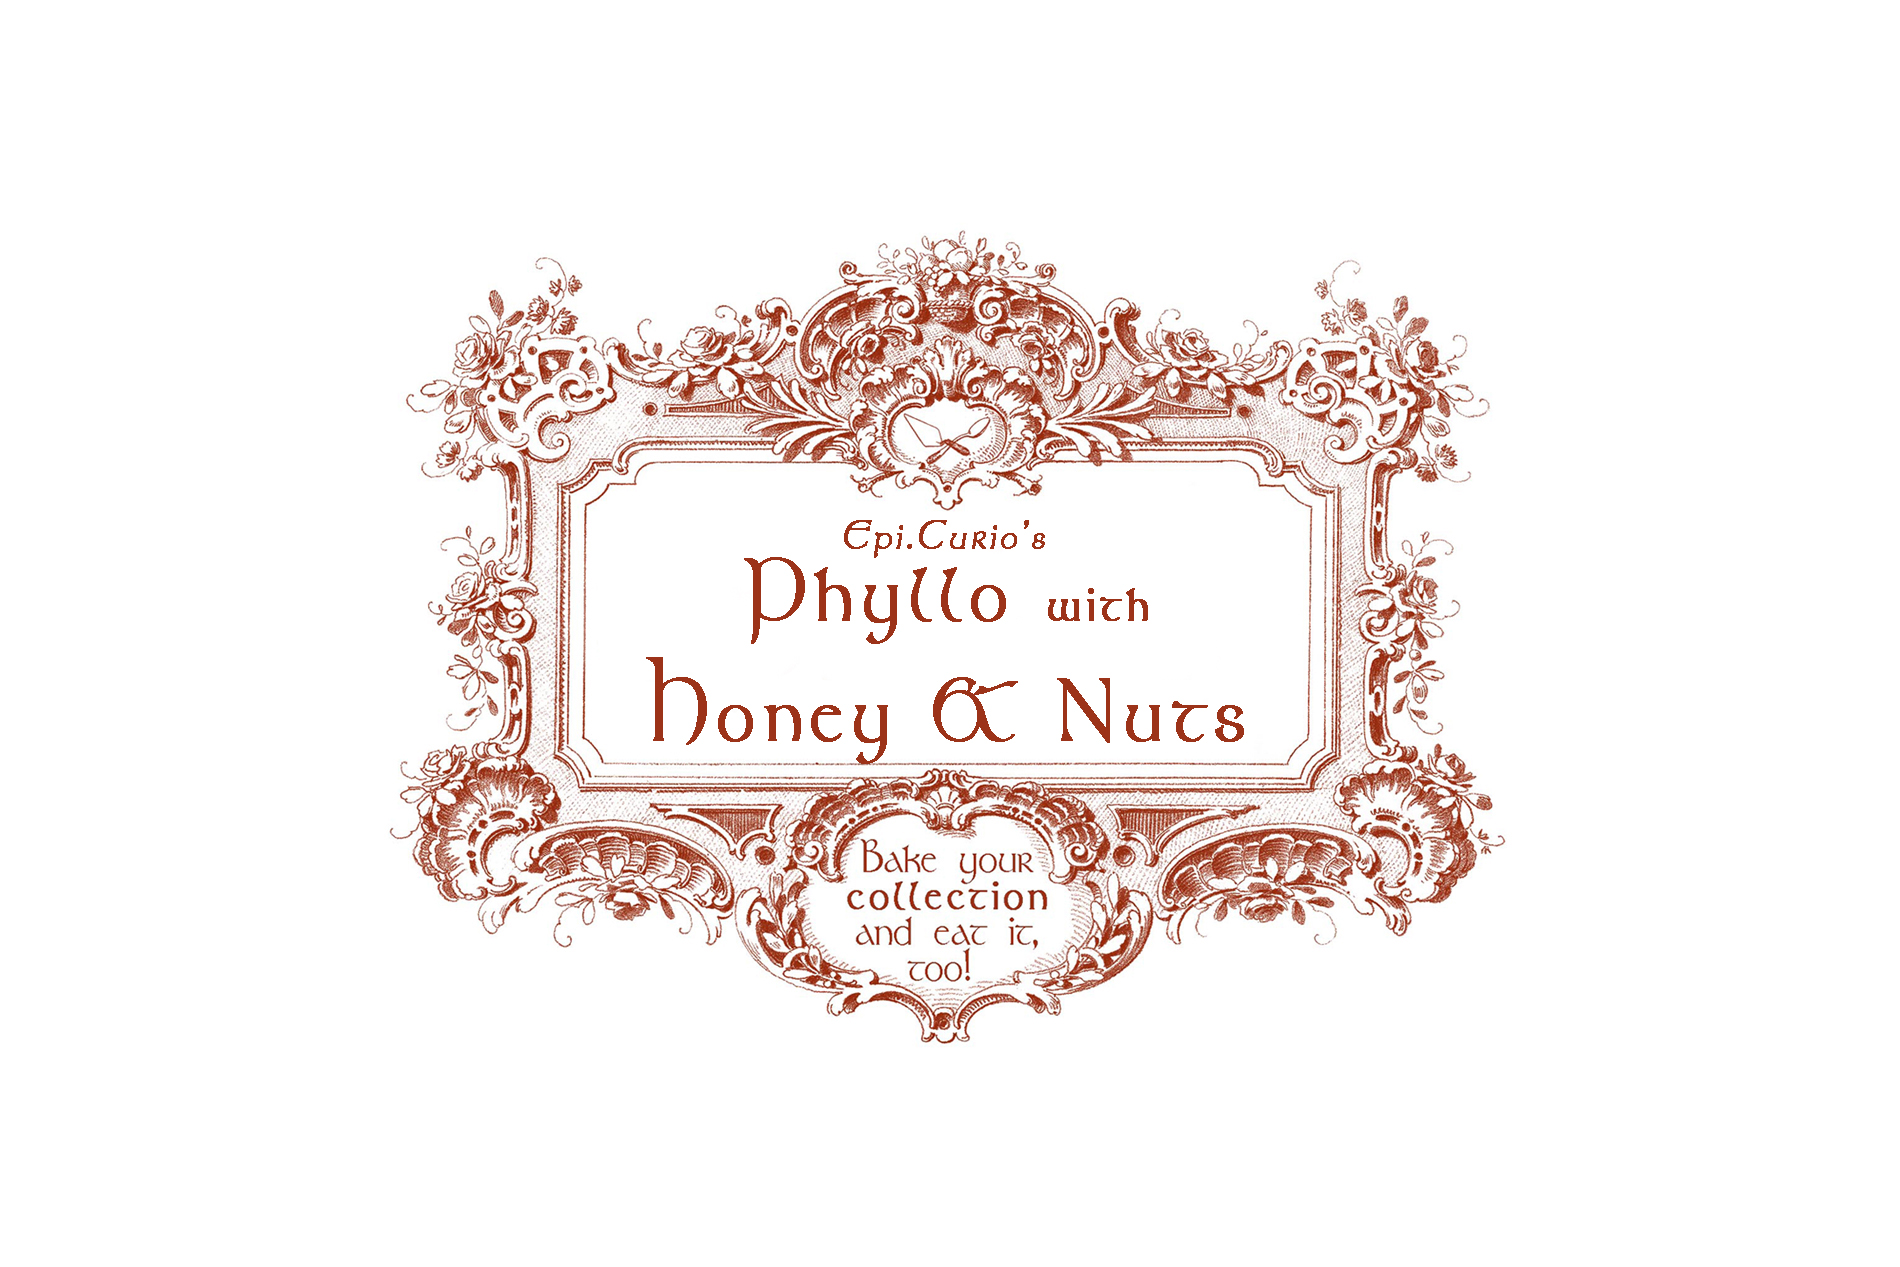
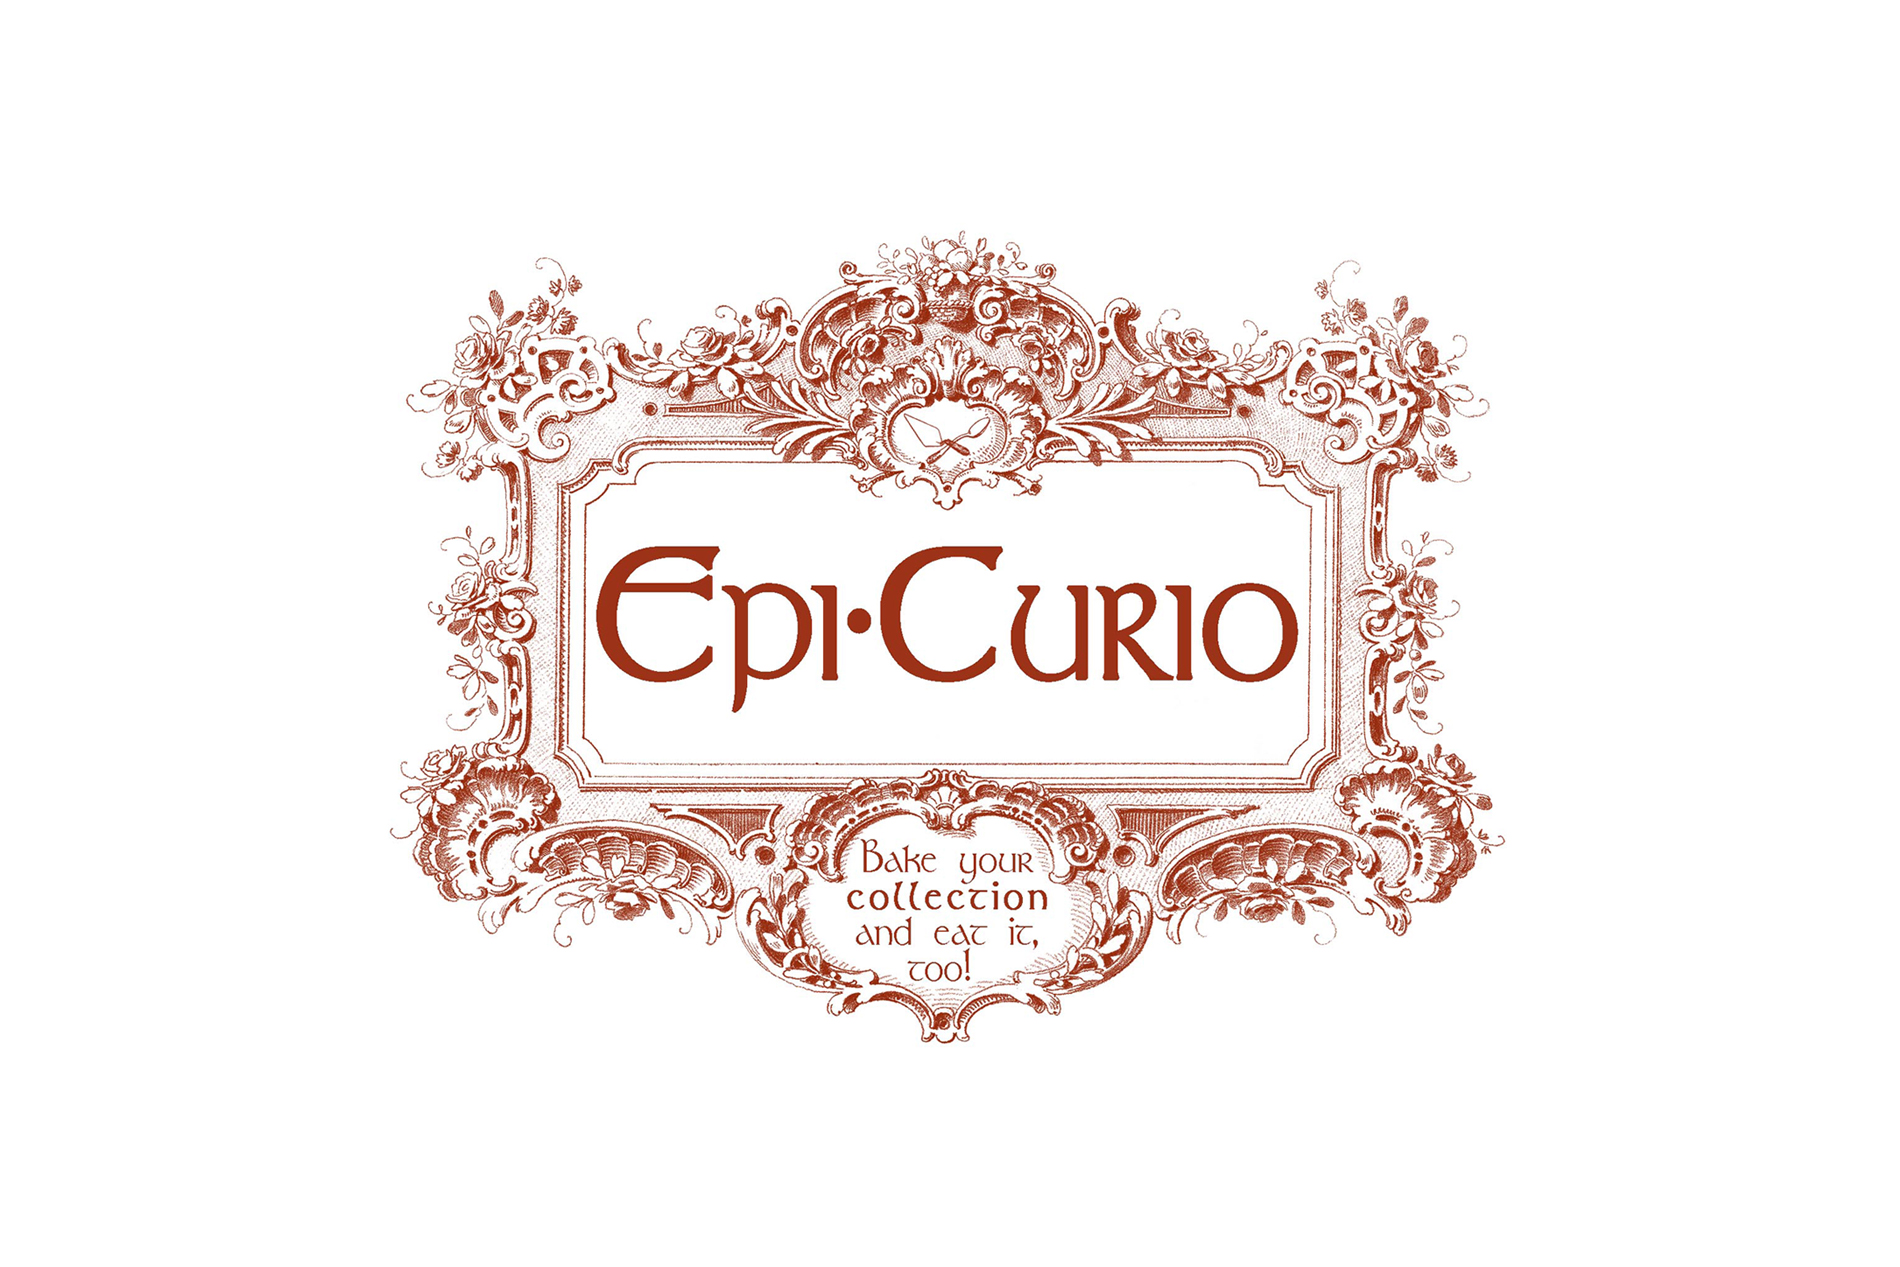
Customized page

Changed region(s): [[0.3105, 0.4002, 0.6832, 0.6156]]

diff --git a/index.html b/index.html
@@ -48,7 +48,7 @@
                     <span class="icon-bar"></span>
                     <span class="icon-bar"></span>
                 </button>
-                <a class="navbar-brand page-scroll" href="#page-top">Phyllo with honey and nuts</a>
+                <a class="navbar-brand page-scroll" href="#page-top">About Epi.Curio</a>
             </div>
 
             <!-- Collect the nav links, forms, and other content for toggling -->
@@ -58,10 +58,10 @@
                         <a class="page-scroll" href="#about">About</a>
                     </li>
                     <li>
-                        <a class="page-scroll" href="#ingredients">Ingredients</a>
+                        <a class="page-scroll" href="#authenticity">Authenticity</a>
                     </li>
 					<li>
-                        <a class="page-scroll" href="#directions">Directions</a>
+                        <a class="page-scroll" href="#creator">Creator</a>
                     </li>
                     <li>
                         <a class="page-scroll" href="#contact">Contact</a>
@@ -89,63 +89,48 @@
         <div class="container">
             <div class="row">
                 <div class="col-lg-8 col-lg-offset-2 text-center">
-                    <h2 class="section-heading">Paper-thin <a href="http://ifood.tv/dough/phyllo-dough/about">phyllo pastry</a> could be traced back as early as the 8th century BC (Assyria) and gets its name from the Greek word for leaf. </h2>
+                    <h2 class="section-heading">Taste and smell are incredibly powerful in creating and negotiating memory, identity, perspective, and experience, but it rarely forms a sustained component of heritage strategies. Epi.Curio was developed to infuse flavours and smells of the past into the experiences and gastronomic creations of people in the present.</h2>
                     <hr class="light">
-                    <p class="text-faded">In this recipe, it is wrapped around the tantalizing spices of Greek cuisine, such as cinnamon and nutmeg, and the richness of nuts, honeys, and oils, to recreate the delicate yet striking and alluring <a href="http://www.namuseum.gr/collections/prehistorical/mycenian/mycenian02-en.html">gold death mask of Agamemnon</a> (1550-1500 BC Mycenae, discovered in the 19th century stimulating historical imaginations of the time). The crisp, delicate layers of golden phyllo complement the nutty filling and sticky sweet syrup.</p>
-                </div>
+                    <p class="text-faded">drawing on curio cabinets and antiquarian approaches to curation as inspiration. These objects were collected, curated, and shown off, sparking curiosities and engagement with diverse cultures and histories. Recipes, too, are heritage collections; individuals and families have long collected, curated, shared, or in some cases kept very secret, recipes that evoked particular identities, histories, and memories; like historical narratives, recipes are modified, manipulated, and negotiated. They are political, social, and economic; they are both shared and individual. The recipes, and the ‘artifacts’ they create, can therefore act as mechanisms through which to explore heritage and our understandings and imagination of the past.</p>
+					<br>
+					<p class="text-faded">Embracing open access resources, digital preservation, and experiential and sensory-based learning, Epi.Curio is a platform for curious and imaginative minds, and stomachs.</p>
+				</div>
             </div>
         </div>
     </section>
 	
-    <section id="ingredients">
+    <section id="authenticity">
           <div class="container">
             <div class="row">
                 <div class="col-lg-12 text-center">
-                    <h2 class="section-heading">Ingredients</h2>
+                    <h2 class="section-heading">Authenticity</h2>
                     <hr class="primary">
                 </div>
             </div>
         </div>
         <div class="container">
             <div class="row">
-			<p><b>Syrup:</b><p>
-			<p>1/2 cup water</p>
-			<p>1 cup honey</p>
-			<p>1 teaspoon vanilla</p>
-			<p>1 teaspoon lemon zest</p>
-			<p>Generous pinch of cinnamon and nutmeg </p>
-		<br>
-			<p><b>Pasty and Filling:</b></p>
-			<p>1 pound chopped mixed nuts (such as walnuts, pistachios, almonds, hazelnuts)</p>
-			<p>2 teaspoons ground cinnamon</p>
-			<p>¼ teaspoon ground nutmeg</p>
-		<br>
-			<p>1 package phyllo dough, 16 ounces (or <a href="http://www.bbc.co.uk/food/filo_pastry">from scratch</a>)</p>
-			<p>1 cup butter melted</p>
-		<br>
-			<p>Edible gold lustre dust, optional </p>
-
-
+			<p></p>Recipes were developed from historical and archaeological resources on food, flavours and cooking processes, as well as museum collections and archives of objects, pairing recipes with appropriate artifacts. Some deviations from authenticity were taken to reflect the availability of products and particular equipment in modern kitchens; these changes were noted as much as possible in recipes for transparency but it was considered necessary for the accessibility of the resource. There are other opportunities for authentic versions of recipes and cooking techniques particularly at historical interpretation centres and in specialist books (and it is hoped that some of these resources can be linked into the site in future), but this is truly a resource for contemporary home bakers. This also leaves it open for others to reinterpret recipes, modify to their own abilities and resources, explore, play and get creative (and report back via contributions and comments).</p>
+			<br>
+			<p>Recipes are  meant to be collected, shared, and modified, as they always have been. There is room for tradition as it replicates particular experiences. However, it is impossible to wholly and completely replicate the past; these recipes are meant to be fun and playful ways to engage with heritage and imagine the past. So experiment, modify, and report back. Share the recipes with others (though it would be appreciated if you cite/link back to this site where possible). Develop new skills and perspectives, and act on them. </p>
             </div>
 			</div>
-		<section id="directions">
+		<section id="creator">
 			<div class="row">
                 <div class="col-lg-12 text-center">	
-				<h2 class="section-heading">Directions</h2>
+				<h2 class="section-heading">Creator</h2>
                     <hr class="primary">
                 </div>
             </div>
         </div>
         <div class="container">
             <div class="row">
-			<p>1.	For the syrup: Combine water, honey, vanilla, lemon zest and spices in a small saucepan over medium-high heat and bring to boil. Reduce heat to medium low and simmer for ten to fifteen minutes, until thick, syrupy and fragrant. Remove from heat and allow to cool to room temperature. </p>
-			<p>2.	For the pastry and filling: toss together chopped nuts and spices. Prepare phyllo but unrolling, cutting to fit desired baking dish, and covering with damp cloth to keep it from drying out. Place two phyllo sheets at the bottom of a greased dish, and brush generously with the butter. Sprinkle with 2 to 3 tablespoons of the spiced-nut mixture in the centre of the phyllo, creating an oval that will form the face of the mask. Repeat in layers, until all ingredients are used. Add scraps of pastry to finish building up relief of face, then cover with about 6 sheets of phyllo on the top (butter between every two layers).</p> 
-			<p>3.	In preheated oven (175 degrees C, 350 degrees F), bake for 50 minutes until golden and crisp, and smelling sweetly of roasted nuts, rich butter and pastry. </p>
-			<p>4.	Immediately spoon cooled syrup over pastry, listening to it sizzle and hiss against the hot, golden pastry. Let cool completely. Brush with gold lustre dust to add sparkle to the golden pastry. </p>
-
+			<p><b><a href="https://york.academia.edu/KatherineCook">Katherine Cook</a></b> is a PhD student in the Department of Archaeology at the University of York, and lives in Hamilton, Canada. Her research combines ethnography, material and landscape analysis, and digital technologies to explore historical archaeology, particularly death, commemoration and identity in the transatlantic worlds of Canada, the Caribbean, and the United Kingdom. She is an avid baker, and all things sweet are her main vice!</p>
 			<br>
-			<p> It is not known how far the recipe for modern Baklava dates back to, and it is unlikely that this recipe is a contemporary of the Mask of Agamemnon. Nevertheless, sources suggest that there is a long history of combining phyllo, nuts, honey, and spices into sweet Greek treats. Experiment with making your own phyllo, different combinations of nuts, and diverse spice combinations for endless flavour experiences. </p>
-                </div>
+			<p> This project was inspired by and developed in participation with <a href="http://www.heritagejam.org/">Heritage Jam 2015</a> at the University of York. </p>
+            <br>
+			<p>Many thanks to those who stood by and ate, commented and tweaked the recipes, design and visualisations for this project (particularly Chrissy Taylor). I also appreciate my current involvement and mentorship at the <a href="http://digitalarchaeology.msu.edu/about/">Institute for Digital Archaeology</a> at the University of Michigan, which has sparked a great deal of my interest in digital heritage, and given me some of the skills to muddle through the web-based element of this project.</p>
+			 </div>
             </div>
         </div>
     </section>
